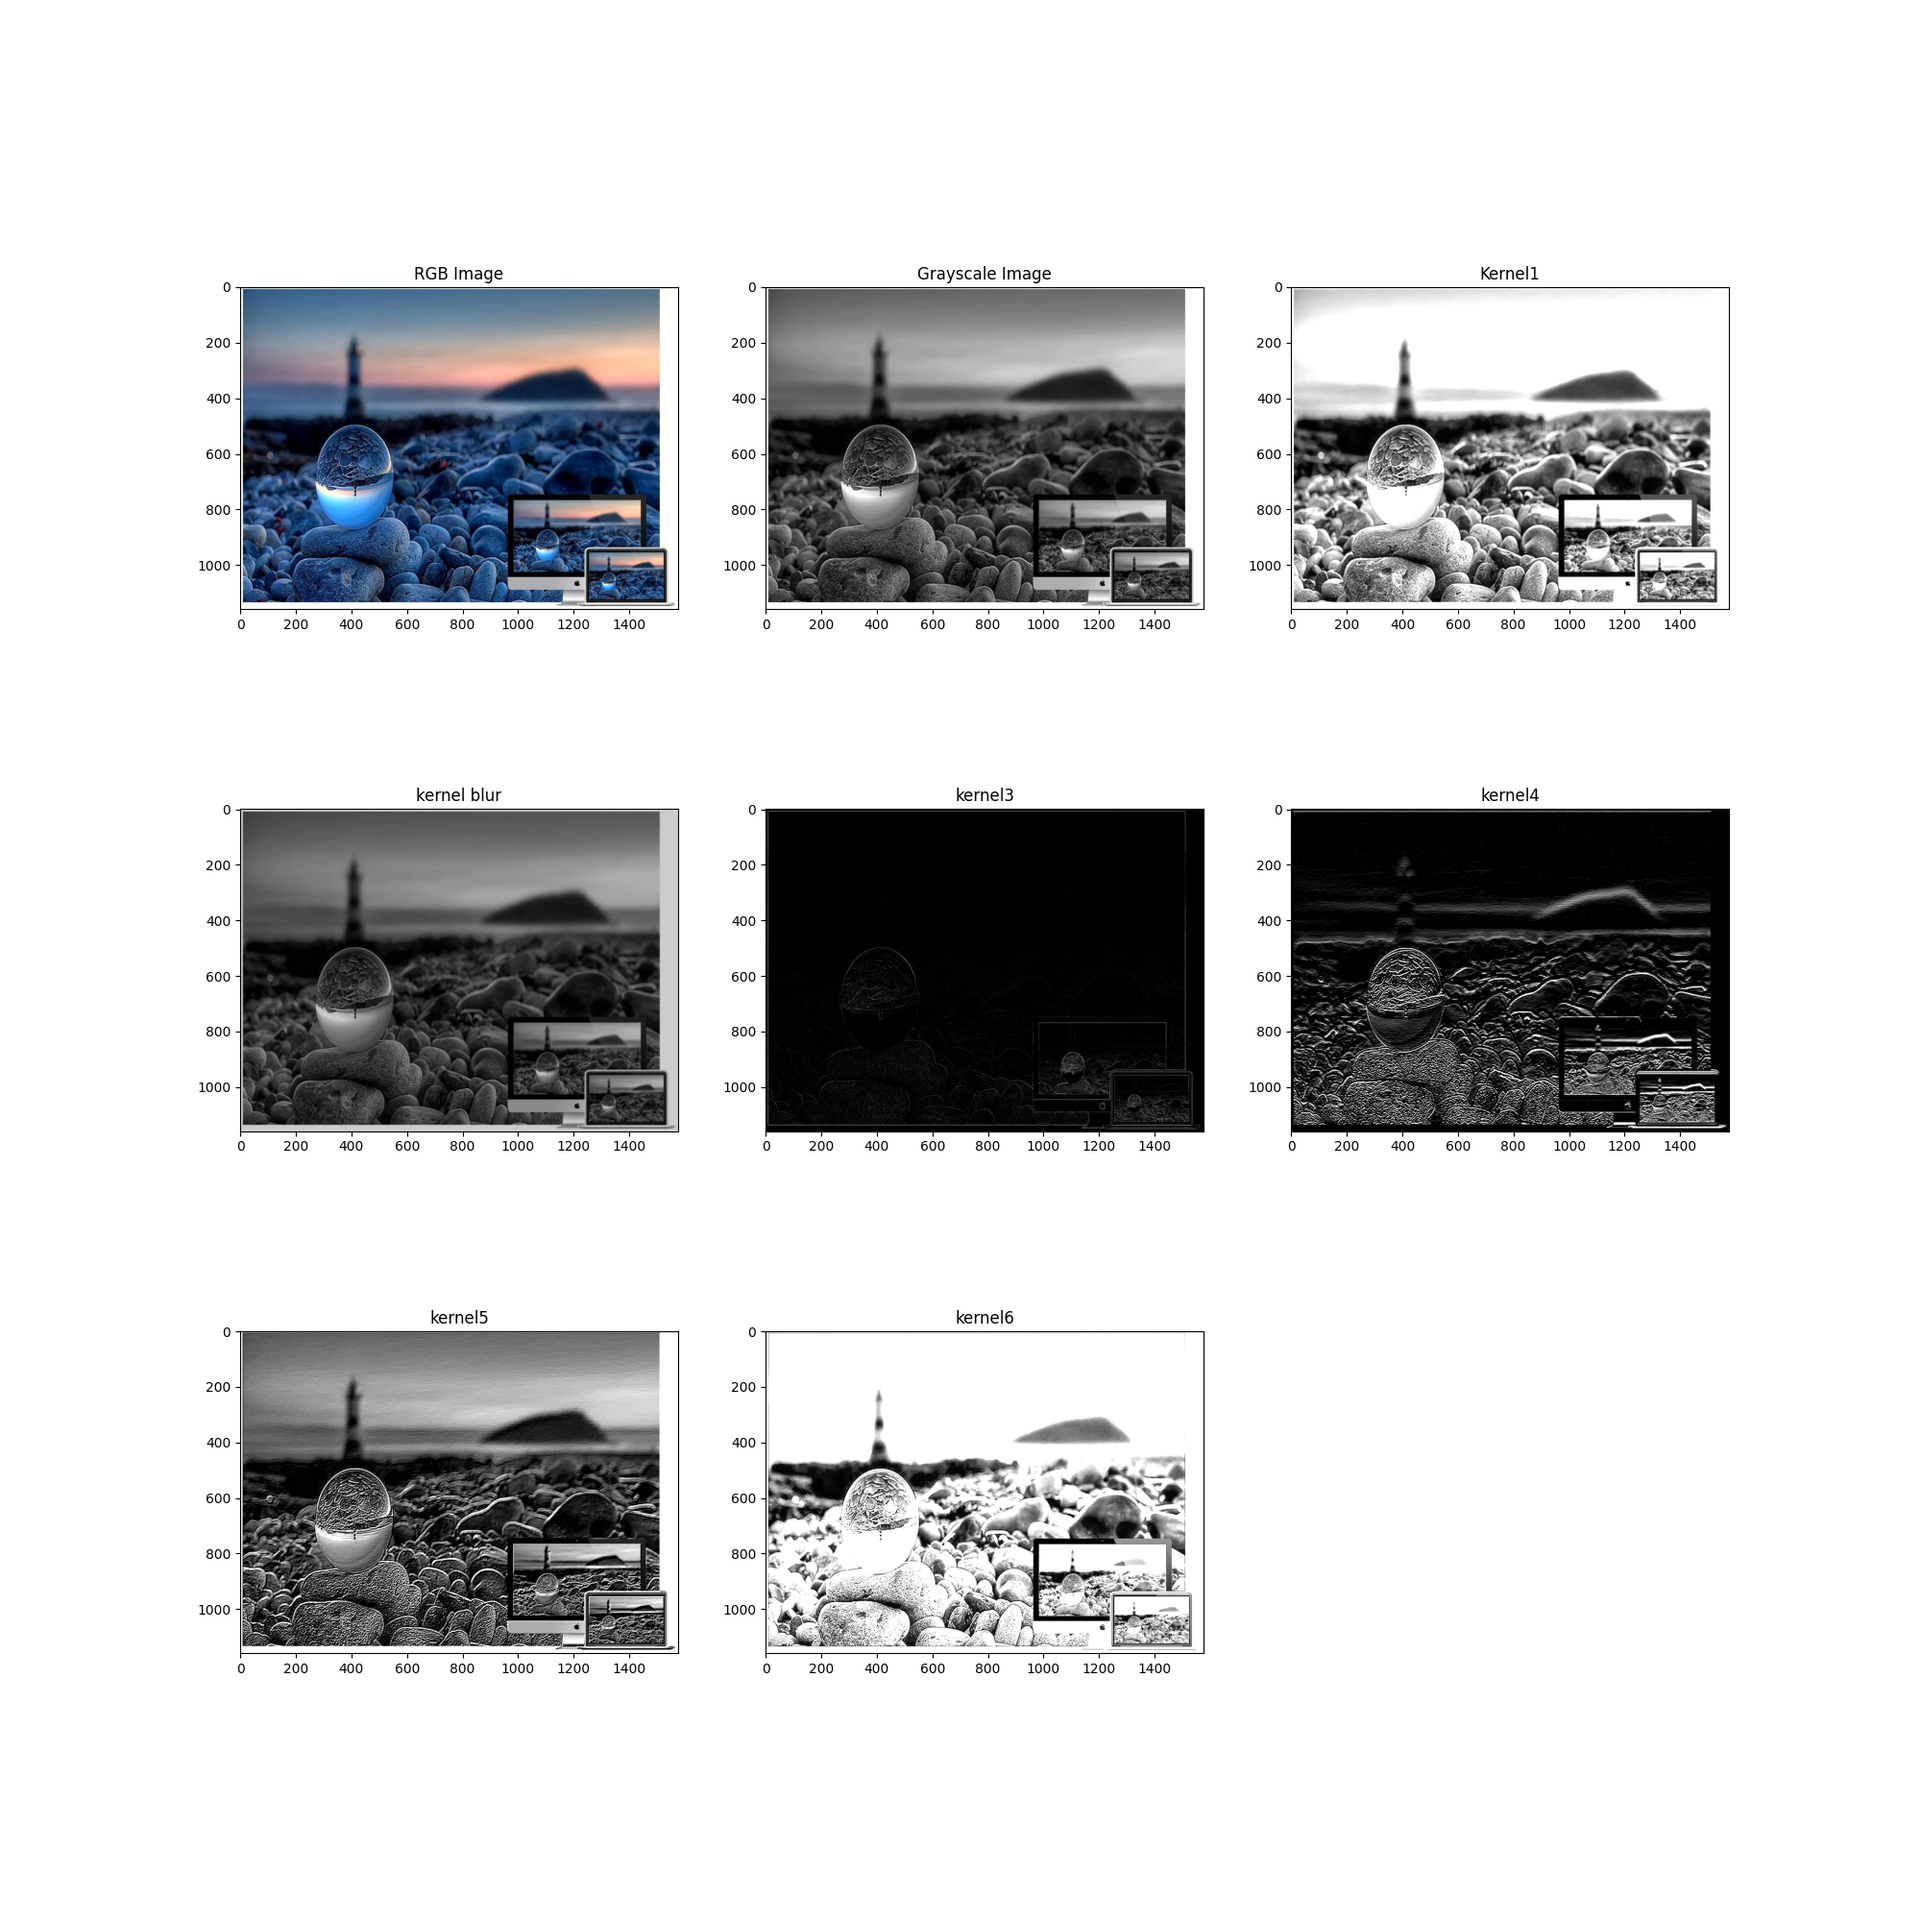
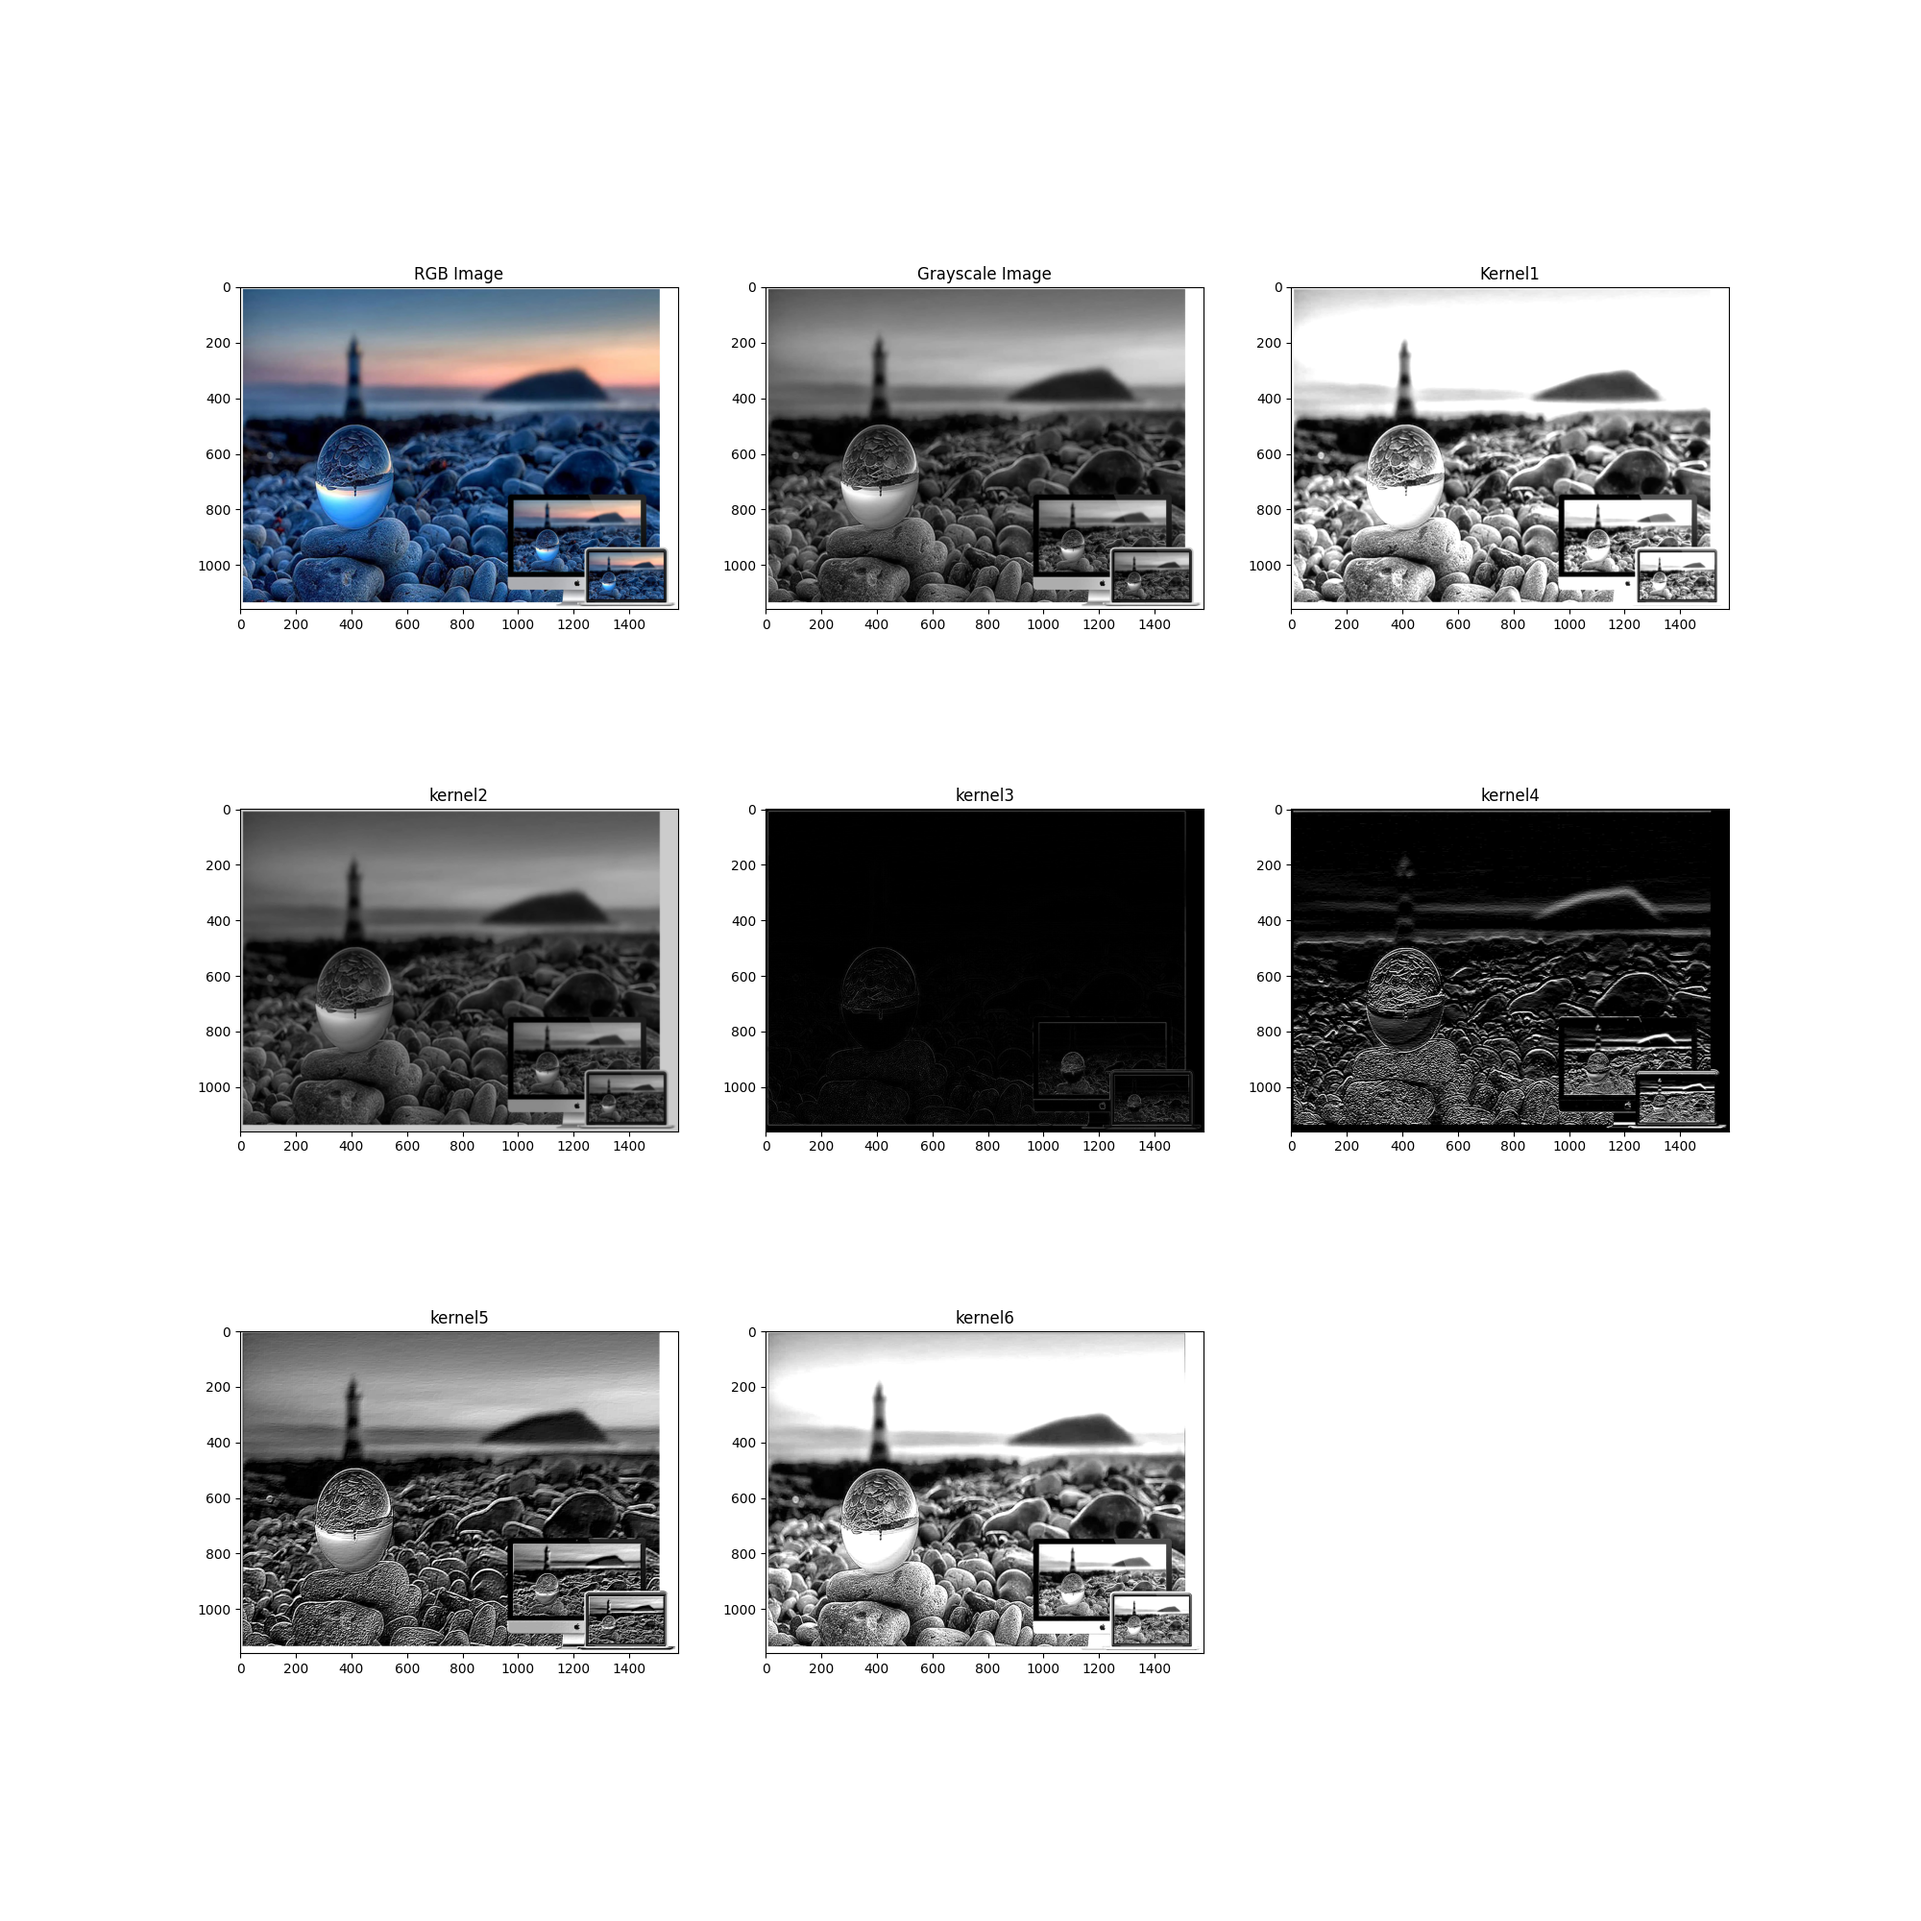
assignment3 done

Changed region(s): [[0.403, 0.682, 0.62, 0.868], [0.217, 0.403, 0.248, 0.434]]

diff --git a/assignment3/assignment3.py b/assignment3/assignment3.py
@@ -8,23 +8,23 @@ def main():
 
     grayscale_image = cv2.cvtColor(rgb_image, cv2.COLOR_RGB2GRAY)
 
+    # creating kernels
     kernel1 = np.ones((3, 3), dtype = np.float32)*25/100
-    # print(kernel1)
-
-    kernelBlur = np.array([[0,0.4,0],[0.4,-0.9,0.4],[0,0.4,0]])
-    kernel3 = np.ones((3, 3), dtype = np.float32)*-0.5
-    kernel3[1,1]=4
-
+    kernel2 = np.array([[0,0.4,0],[0.4,-0.9,0.4],[0,0.4,0]])
+    kernel3 = np.ones((3, 3), dtype = np.float32)*-0.5;kernel3[1,1]=4
     kernel4 = np.array([[3,4,5],[0,0,0],[-3,-4,-5]])
     kernel5 = np.array([[-3,-2,-1],[-1,1,1],[1,2,3]])
-    kernel6 = np.array([[-1,0,-1],[0,8,0],[-1,0,-1]])
+    kernel6 = np.array([[-1,0,-1],[0,6,0],[-1,0,-1]])
 
-    kernels = [kernel1,kernelBlur,kernel3,kernel4,kernel5,kernel6]
-    kernelNames=['Kernel1','kernel blur','kernel3','kernel4','kernel5','kernel6']
+    kernels = [kernel1,kernel2,kernel3,kernel4,kernel5,kernel6]
+
+    kernelNames=['Kernel 1','kernel 2','kernel 3','kernel 4','kernel 5','kernel 6']
     processed_images = [rgb_image,grayscale_image]
     processed_images_titlels = ['RGB Image','Grayscale Image']
 
     c = 0
+
+    # process the images
     for kernel in kernels:
         processed_image = cv2.filter2D(grayscale_image, -1, kernel)
         processed_images.append(processed_image)
@@ -35,18 +35,18 @@ def main():
 
 def plot_images(images,titles):
     n = len(images)
-    plt.figure(figsize = (20, 20))
     for i in range(n):
+        plt.figure(figsize = (15, 10))
         img = images[i]
         ch = len(img.shape)
 
-        plt.subplot(3, 3, i + 1)
+        # plt.subplot(3, 3, i + 1)
         if (ch == 3):
             plt.imshow(images[i])
         else:
             plt.imshow(images[i], cmap = 'gray')
         plt.title(titles[i])
-    plt.savefig('./output')
+        plt.savefig('./'+titles[i]+'.png')
     # plt.show()
 if __name__ == '__main__':
     main()
